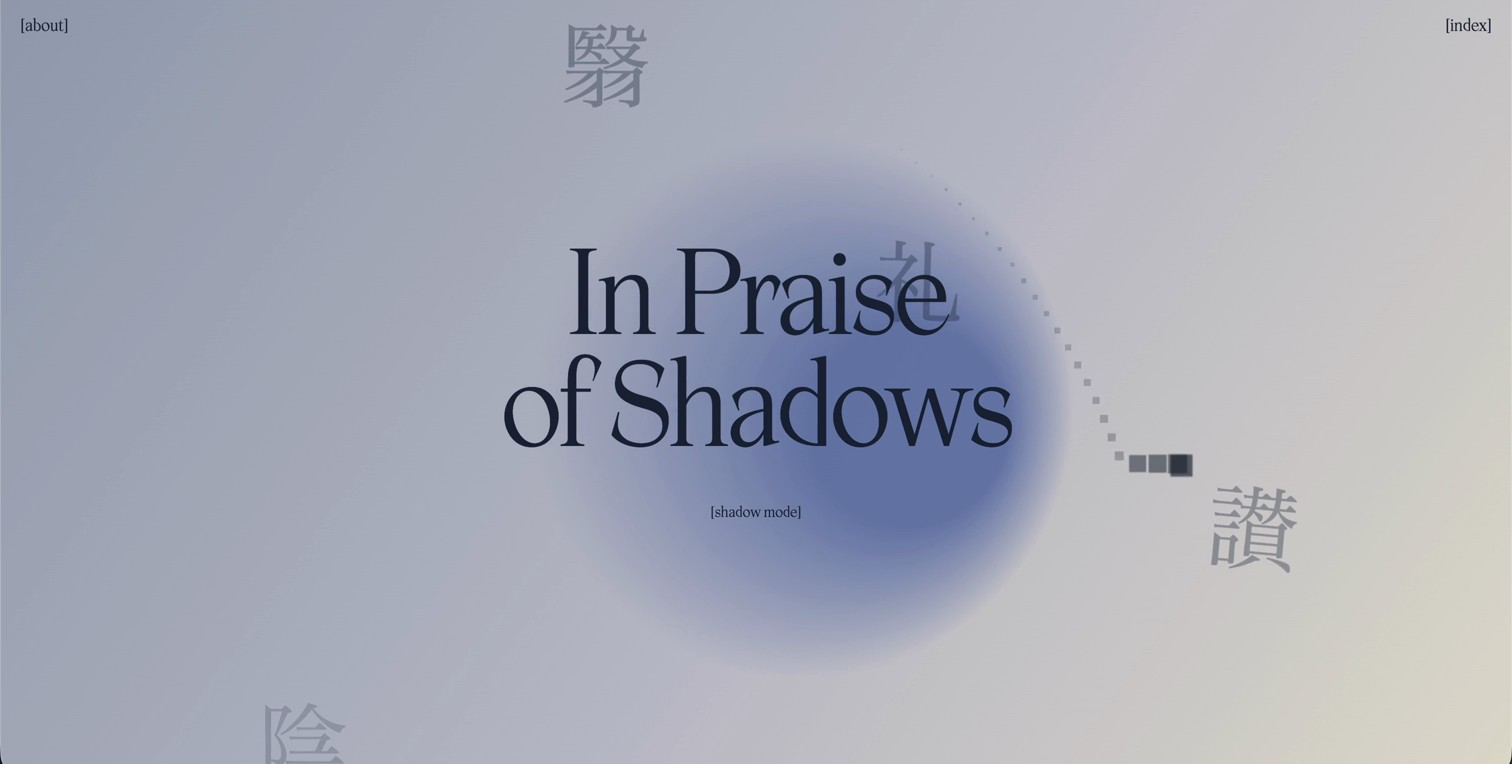
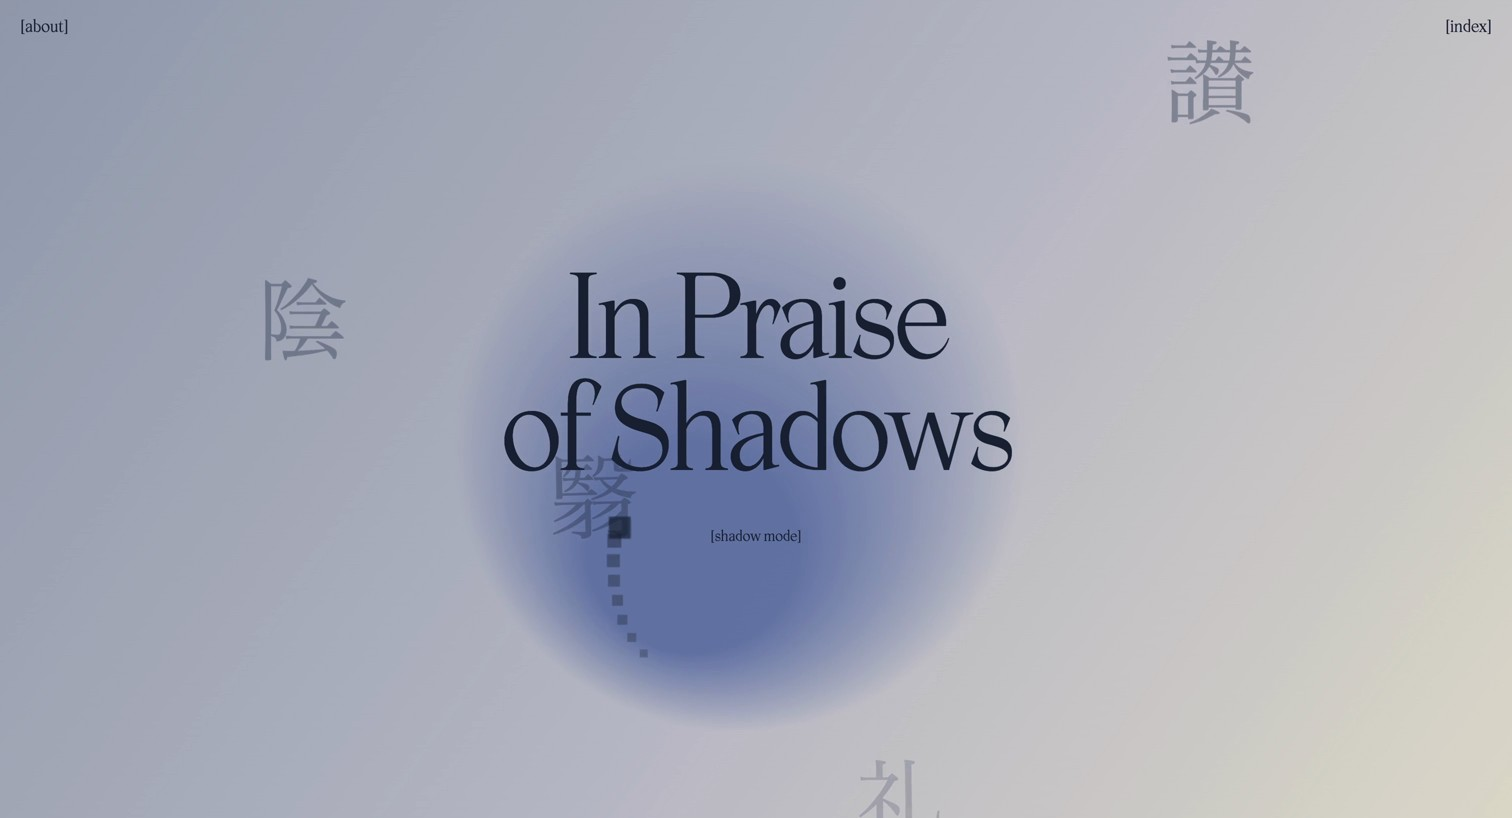
Update Shadows video and enable looping playback

diff --git a/index.html b/index.html
@@ -8,7 +8,7 @@
   <title>Yuyao Wang</title>
   <link rel="preload" href="assets/fonts/BontoTrial-Regular.otf" as="font" type="font/otf" crossorigin>
   <link rel="preload" href="assets/fonts/Metropolis-Regular.woff2" as="font" type="font/woff2" crossorigin>
-  <link rel="stylesheet" href="style.css?v=shadows-recording-1">
+  <link rel="stylesheet" href="style.css?v=shadows-recording-2">
   <script src="script.js?v=shape-preview-1" defer></script>
 </head>
 <body class="landing-page archive-layout">
@@ -44,8 +44,8 @@
 <a class="work-image" href="work-details/abandoned-chairs.html" aria-label="View Abandoned Chairs project"><img data-gallery-image src="assets/abandoned-chairs-homepage.png" alt="Abandoned Chairs — Website homepage" loading="lazy" decoding="async" width="1080" height="677"></a>
 <div class="archive-caption"><div class="archive-information"><h3><a href="work-details/abandoned-chairs.html">Abandoned Chairs</a></h3><p class="archive-type">Interactive website</p></div><div class="archive-views" role="group" aria-label="Abandoned Chairs views"><button type="button" data-gallery-src="assets/abandoned-chairs-homepage.png" data-gallery-alt="Abandoned Chairs — Website homepage" aria-label="Show Abandoned Chairs: Website homepage" aria-pressed="true"><img src="assets/abandoned-chairs-homepage.png" alt="" loading="lazy" decoding="async" width="1080" height="677"></button><button type="button" data-gallery-src="projects/abandoned-chairs/chair1.jpg" data-gallery-alt="Abandoned Chairs — Chair photograph" aria-label="Show Abandoned Chairs: Chair photograph" aria-pressed="false"><img src="projects/abandoned-chairs/chair1.jpg" alt="" loading="lazy" decoding="async" width="1279" height="1476"></button><button type="button" data-gallery-src="projects/abandoned-chairs/chair19.jpg" data-gallery-alt="Abandoned Chairs — Chair photograph" aria-label="Show Abandoned Chairs: Chair photograph" aria-pressed="false"><img src="projects/abandoned-chairs/chair19.jpg" alt="" loading="lazy" decoding="async" width="1125" height="1223"></button></div></div>
 </article>
-<article style="--archive-ratio: 3024 / 1528" class="work archive-project archive-inset" id="in-praise-of-shadows">
-<div class="work-media"><a class="work-image" href="work-details/in-praise-of-shadows.html" aria-label="View In Praise of Shadows project"><img class="video-poster" data-gallery-image src="assets/posters/in-praise-of-shadows.jpg" alt="In Praise of Shadows — Interactive reading" loading="lazy" decoding="async" width="3024" height="1528"><video class="work-video" muted loop playsinline preload="none" poster="assets/posters/in-praise-of-shadows.jpg" aria-label="In Praise of Shadows website preview"><source src="assets/videos/in-praise-of-shadows-preview.mp4" type="video/mp4"></video></a><button class="video-preview-toggle" type="button" aria-label="Play In Praise of Shadows website preview" hidden><svg viewBox="0 0 16 16" aria-hidden="true"><path d="M5 3.5 12 8l-7 4.5Z" fill="currentColor"/></svg><span>Play</span></button></div>
+<article style="--archive-ratio: 3024 / 1636" class="work archive-project archive-inset" id="in-praise-of-shadows">
+<div class="work-media"><a class="work-image" href="work-details/in-praise-of-shadows.html" aria-label="View In Praise of Shadows project"><img class="video-poster" data-gallery-image src="assets/posters/in-praise-of-shadows.jpg?v=20261019-195154" alt="In Praise of Shadows — Interactive reading" loading="lazy" decoding="async" width="3024" height="1636"><video class="work-video" muted loop playsinline preload="none" poster="assets/posters/in-praise-of-shadows.jpg?v=20261019-195154" aria-label="In Praise of Shadows website preview"><source src="assets/videos/in-praise-of-shadows-preview.mp4?v=20261019-195154" type="video/mp4"></video></a><button class="video-preview-toggle" type="button" aria-label="Play In Praise of Shadows website preview" hidden><svg viewBox="0 0 16 16" aria-hidden="true"><path d="M5 3.5 12 8l-7 4.5Z" fill="currentColor"/></svg><span>Play</span></button></div>
 <div class="archive-caption"><div class="archive-information"><h3><a href="work-details/in-praise-of-shadows.html">In Praise of Shadows</a></h3><p class="archive-type">Interactive reading</p></div></div>
 </article>
 <article style="--archive-ratio: 1440 / 903" class="work archive-project archive-wide" id="mome-choix">

diff --git a/work.html b/work.html
@@ -8,7 +8,7 @@
   <title>Yuyao Wang</title>
   <link rel="preload" href="assets/fonts/BontoTrial-Regular.otf" as="font" type="font/otf" crossorigin>
   <link rel="preload" href="assets/fonts/Metropolis-Regular.woff2" as="font" type="font/woff2" crossorigin>
-  <link rel="stylesheet" href="style.css?v=shadows-recording-1">
+  <link rel="stylesheet" href="style.css?v=shadows-recording-2">
   <script src="script.js?v=shape-preview-1" defer></script>
 </head>
 <body class="work-page archive-layout">
@@ -35,8 +35,8 @@
 <a class="work-image" href="work-details/abandoned-chairs.html" aria-label="View Abandoned Chairs project"><img data-gallery-image src="assets/abandoned-chairs-homepage.png" alt="Abandoned Chairs — Website homepage" loading="lazy" decoding="async" width="1080" height="677"></a>
 <div class="archive-caption"><div class="archive-information"><h3><a href="work-details/abandoned-chairs.html">Abandoned Chairs</a></h3><p class="archive-type">Interactive website</p></div><div class="archive-views" role="group" aria-label="Abandoned Chairs views"><button type="button" data-gallery-src="assets/abandoned-chairs-homepage.png" data-gallery-alt="Abandoned Chairs — Website homepage" aria-label="Show Abandoned Chairs: Website homepage" aria-pressed="true"><img src="assets/abandoned-chairs-homepage.png" alt="" loading="lazy" decoding="async" width="1080" height="677"></button><button type="button" data-gallery-src="projects/abandoned-chairs/chair1.jpg" data-gallery-alt="Abandoned Chairs — Chair photograph" aria-label="Show Abandoned Chairs: Chair photograph" aria-pressed="false"><img src="projects/abandoned-chairs/chair1.jpg" alt="" loading="lazy" decoding="async" width="1279" height="1476"></button><button type="button" data-gallery-src="projects/abandoned-chairs/chair19.jpg" data-gallery-alt="Abandoned Chairs — Chair photograph" aria-label="Show Abandoned Chairs: Chair photograph" aria-pressed="false"><img src="projects/abandoned-chairs/chair19.jpg" alt="" loading="lazy" decoding="async" width="1125" height="1223"></button></div></div>
 </article>
-<article style="--archive-ratio: 3024 / 1528" class="work archive-project archive-inset" id="in-praise-of-shadows">
-<div class="work-media"><a class="work-image" href="work-details/in-praise-of-shadows.html" aria-label="View In Praise of Shadows project"><img class="video-poster" data-gallery-image src="assets/posters/in-praise-of-shadows.jpg" alt="In Praise of Shadows — Interactive reading" loading="lazy" decoding="async" width="3024" height="1528"><video class="work-video" muted loop playsinline preload="none" poster="assets/posters/in-praise-of-shadows.jpg" aria-label="In Praise of Shadows website preview"><source src="assets/videos/in-praise-of-shadows-preview.mp4" type="video/mp4"></video></a><button class="video-preview-toggle" type="button" aria-label="Play In Praise of Shadows website preview" hidden><svg viewBox="0 0 16 16" aria-hidden="true"><path d="M5 3.5 12 8l-7 4.5Z" fill="currentColor"/></svg><span>Play</span></button></div>
+<article style="--archive-ratio: 3024 / 1636" class="work archive-project archive-inset" id="in-praise-of-shadows">
+<div class="work-media"><a class="work-image" href="work-details/in-praise-of-shadows.html" aria-label="View In Praise of Shadows project"><img class="video-poster" data-gallery-image src="assets/posters/in-praise-of-shadows.jpg?v=20261019-195154" alt="In Praise of Shadows — Interactive reading" loading="lazy" decoding="async" width="3024" height="1636"><video class="work-video" muted loop playsinline preload="none" poster="assets/posters/in-praise-of-shadows.jpg?v=20261019-195154" aria-label="In Praise of Shadows website preview"><source src="assets/videos/in-praise-of-shadows-preview.mp4?v=20261019-195154" type="video/mp4"></video></a><button class="video-preview-toggle" type="button" aria-label="Play In Praise of Shadows website preview" hidden><svg viewBox="0 0 16 16" aria-hidden="true"><path d="M5 3.5 12 8l-7 4.5Z" fill="currentColor"/></svg><span>Play</span></button></div>
 <div class="archive-caption"><div class="archive-information"><h3><a href="work-details/in-praise-of-shadows.html">In Praise of Shadows</a></h3><p class="archive-type">Interactive reading</p></div></div>
 </article>
 <article style="--archive-ratio: 1440 / 903" class="work archive-project archive-wide" id="mome-choix">

diff --git a/work-details/in-praise-of-shadows.html b/work-details/in-praise-of-shadows.html
@@ -7,7 +7,7 @@
   <meta name="description" content="In Praise of Shadows — a web design project by Yuyao Wang.">
   <title>Yuyao Wang</title>
   <link rel="preload" href="../assets/fonts/Metropolis-Regular.woff2" as="font" type="font/woff2" crossorigin>
-  <link rel="stylesheet" href="../style.css?v=shadows-recording-1">
+  <link rel="stylesheet" href="../style.css?v=shadows-recording-2">
   <script src="../script.js?v=project-return-home-1" defer></script>
 </head>
 <body class="project-page">
@@ -23,9 +23,9 @@
       <h1 id="project-title">In Praise of Shadows</h1>
     </div>
     <section class="project-content" aria-label="Project preview">
-      <video class="project-recording" controls playsinline preload="metadata" poster="../assets/posters/in-praise-of-shadows.jpg" width="3024" height="1528" aria-label="In Praise of Shadows website recording">
-        <source src="../assets/videos/in-praise-of-shadows-web.mp4" type="video/mp4">
-        <a href="../assets/videos/in-praise-of-shadows-web.mp4">Watch recording</a>
+      <video class="project-recording" controls loop playsinline preload="metadata" poster="../assets/posters/in-praise-of-shadows.jpg?v=20261019-195154" width="3024" height="1636" aria-label="In Praise of Shadows website recording">
+        <source src="../assets/videos/in-praise-of-shadows-web.mp4?v=20261019-195154" type="video/mp4">
+        <a href="../assets/videos/in-praise-of-shadows-web.mp4?v=20261019-195154">Watch recording</a>
       </video>
     </section>
   </main>

diff --git a/style.css b/style.css
@@ -413,7 +413,7 @@ footer { position: relative; padding: 16px 20px 22px; color: white; font-size: 1
 .project-category { margin: 8px 0 0; color: var(--muted); font-family: var(--label-font); font-size: 13px; font-weight: 400; line-height: 1.5; letter-spacing: .3px; }
 .project-intro h1 { margin: 0; max-width: 22ch; color: var(--heading); font-family: var(--english-font); font-size: clamp(32px, 4vw, 52px); line-height: 1.18; font-weight: 400; letter-spacing: -.8px; overflow-wrap: anywhere; text-wrap: balance; }
 .project-content { grid-column: 2; min-width: 0; min-height: 45svh; margin-top: 64px; color: var(--project-ink); font-family: var(--body-font); font-size: 16px; line-height: 1.8; }
-.project-content > .project-recording { display: block; width: 100%; height: auto; aspect-ratio: 3024 / 1528; }
+.project-content > .project-recording { display: block; width: 100%; height: auto; aspect-ratio: 3024 / 1636; }
 @media (max-width: 760px) {
   .project-detail { display: block; padding: 20px 24px 64px; }
   .project-utilities { gap: 16px; }
